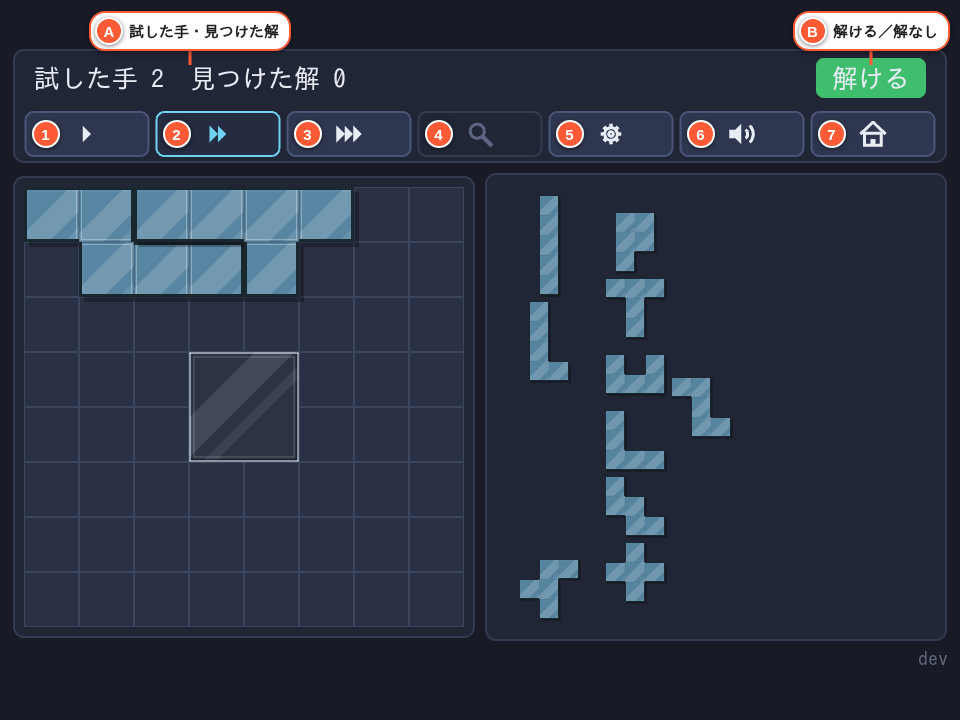
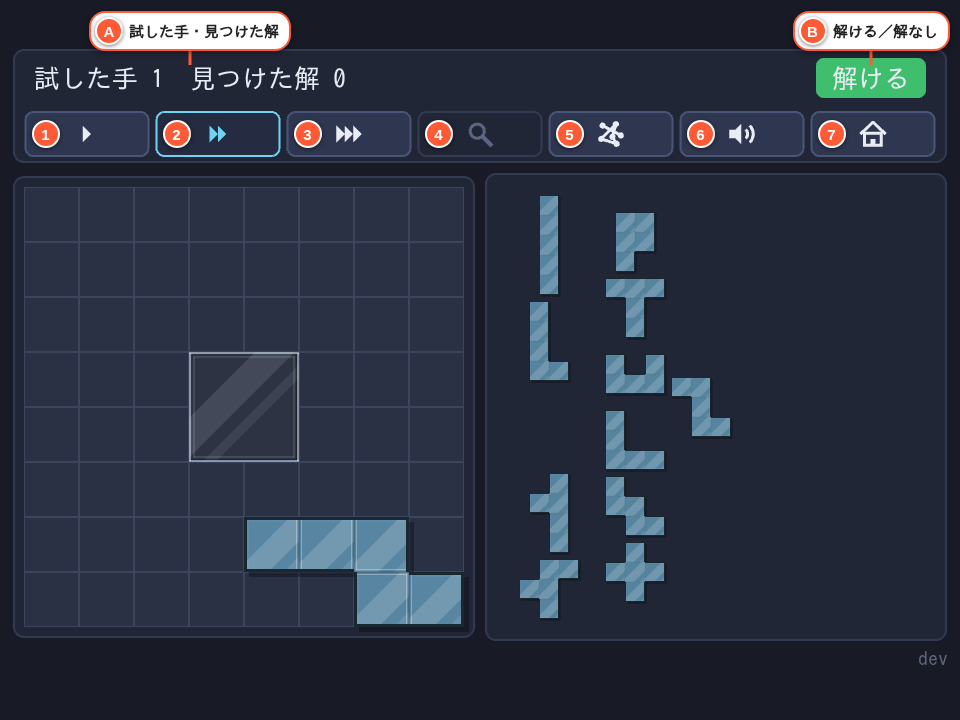
feat(demo): デモの既定の探し方をランダムにし、探し方のアイコンを描き直す（TODO-075）
深さ優先は根から枝分かれする木、ランダムは散らした節を交差・輪ができるように
結んだ形にした。文書のキャプチャ（demo.png・demo.gif）も撮り直した。

Claude-Session: https://claude.ai/code/session_019Ssv8KfqsEowbawX9nJXaM

diff --git a/src/icons.js b/src/icons.js
@@ -30,6 +30,21 @@ function arrowHead(g, x, y, angle, length) {
   );
 }
 
+/** 探し方のアイコンの節と線。木と散らばりで節の数と大きさを揃え、結び方だけを違いにする。 */
+const NODE_RADIUS = 0.22;
+const TREE_NODES = [[0, -0.7], [-0.45, 0], [0.45, 0], [-0.75, 0.7], [-0.15, 0.7], [0.45, 0.7]];
+const TREE_EDGES = [[0, 1], [0, 2], [1, 3], [1, 4], [2, 5]];
+const SCATTER_NODES = [[-0.6, -0.6], [0.35, -0.7], [0.1, 0.2], [-0.7, 0.35], [0.7, 0.1], [0.4, 0.7]];
+const SCATTER_EDGES = [[0, 4], [1, 3], [3, 5], [5, 2], [2, 1]];
+
+function graph(g, color, nodes, edges) {
+  begin(g, color);
+  for (const [a, b] of edges) {
+    g.lineBetween(nodes[a][0] * U, nodes[a][1] * U, nodes[b][0] * U, nodes[b][1] * U);
+  }
+  for (const [x, y] of nodes) g.fillCircle(x * U, y * U, NODE_RADIUS * U);
+}
+
 function begin(g, color, width = ICON.lineWidth) {
   g.lineStyle(width, color, 1);
   g.fillStyle(color, 1);
@@ -162,36 +177,15 @@ export const ICONS = {
   },
 
   /**
-   * デモの探し方（TODO-050・TODO-057・TODO-070）。深さ優先は歯車（機械的に
-   * 決まった順で埋める）、ランダムは太い「？」（考えながら探す）。
-   * 顔＋「？」だと HUD の大きさでは「♂」に近く見えたため、「？」1 文字だけの
-   * 線画にした（フォントではなく Graphics API。点と曲線の間を空け、小さくても
-   * 離れて読めるようにしてある）。
+   * デモの探し方（TODO-050・TODO-057・TODO-075）。深さ優先は根から枝分かれする
+   * 木（決まった順で枝をたどる）、ランダムは散らした節を行き当たりばったりに
+   * 結んだもの（線が交差し、輪もできる）。2 つを並べたとき、整った枝分かれと
+   * 絡まった線で対になるようにしてある。
    */
   depthFirst(g, color) {
-    begin(g, color);
-    const r = 0.45 * U;
-    const toothLen = 0.28 * U;
-    const half = 0.13 * U;
-    const count = 8;
-    for (let i = 0; i < count; i += 1) {
-      const angle = (i / count) * Math.PI * 2;
-      const cx = Math.cos(angle) * (r + toothLen / 2);
-      const cy = Math.sin(angle) * (r + toothLen / 2);
-      const dx = Math.cos(angle) * (toothLen / 2);
-      const dy = Math.sin(angle) * (toothLen / 2);
-      const px = -Math.sin(angle) * half;
-      const py = Math.cos(angle) * half;
-      g.fillPoints([
-        { x: cx - dx + px, y: cy - dy + py },
-        { x: cx + dx + px, y: cy + dy + py },
-        { x: cx + dx - px, y: cy + dy - py },
-        { x: cx - dx - px, y: cy - dy - py },
-      ], true);
-    }
-    g.strokeCircle(0, 0, r);
-    g.strokeCircle(0, 0, 0.16 * U);
+    graph(g, color, TREE_NODES, TREE_EDGES);
   },
+
   /** チェックボックスの印（TODO-071）。 */
   check(g, color) {
     begin(g, color, ICON.lineWidth + 1);
@@ -227,15 +221,7 @@ export const ICONS = {
   },
 
   random(g, color) {
-    begin(g, color, ICON.lineWidth + 2);
-    // 鉤の先が真下（角度 90°）で終わるように半径・中心を選び、その下へ
-    // まっすぐ茎を伸ばす。点は茎と間を空けて置き、小さくても離れて見える
-    // ようにしてある。
-    g.beginPath();
-    g.arc(0, -0.3 * U, 0.42 * U, -Math.PI * 0.8, Math.PI * 0.5, false);
-    g.strokePath();
-    g.lineBetween(0, 0.12 * U, 0, 0.35 * U);
-    g.fillCircle(0, 0.62 * U, 0.15 * U);
+    graph(g, color, SCATTER_NODES, SCATTER_EDGES);
   },
 };
 

diff --git a/src/scenes/demo.js b/src/scenes/demo.js
@@ -1,7 +1,7 @@
 /**
  * デモ（TODO-040）。コンピューターが探索でピースを置いたり外したり
  * しながら解に至る様子を、本編と同じ盤とトレイの上で見せる。探し方は
- * 深さ優先（既定）とランダムから HUD で選ぶ（TODO-050・TODO-057）。
+ * ランダム（既定。TODO-075）と深さ優先から HUD で選ぶ（TODO-050・TODO-057）。
  *
  * 盤・トレイ・ピースの描画は本編（`GameScene`）をそのまま使い回したいので
  * 継承する。`create()` は上書きして描画に要るものだけを組み、入力・ヒント・
@@ -76,7 +76,7 @@ export default class DemoScene extends GameScene {
     this.state = 'loading';
     this.steps = null;
     this.solutions = null;
-    this.strategy = 'depth';
+    this.strategy = 'random';
     // 直前に置いた手が解につながるか。null は表示を空にする（解けたとき）。
     this.hintState = 'ok';
     this.speed = DEMO.defaultSpeed;

diff --git a/archives/agents/TODO-075/reviewer-report.md b/archives/agents/TODO-075/reviewer-report.md
@@ -1,0 +1,82 @@
+# TODO-075 reviewer の報告
+
+対象: 未コミットの `git diff`（2 回目の更新後。`src/icons.js` の `graph()`・
+`SCATTER_EDGES` を含む版）。アイコンの見た目の良し悪しは見ていない。
+
+## 要修正（2 件）
+
+### 1. `tools/capture.mjs:270-277` — random が既定になると demo.png の撮影が 30 秒で落ちることがある
+
+- 何が問題か: `waitForFunction(() => s.hintState === 'ok' ...)` は、深さ優先なら
+  解なしの手をすぐ外すので必ずすぐ通る、という前提で書かれている（270 行目の
+  コメント「解なしの手はすぐ外されるため」）。既定が random になり、撮影は
+  探し方を切り替えないので random で撮ることになる。random は「解なし」のまま
+  置き続けるので、`ok` になるまで長く待つことがある
+- 根拠（実測。Node で `solveStepsRandom()` と `hasSolution()` を 8×8 で回した。
+  スクリプトは scratchpad、コミット対象外）:
+  - 手のうち hintState が `ok` の割合: random 0.04〜0.05、深さ優先 0.57〜0.60（各 3 回）
+  - `解なし` の連続: random で最長 143〜221 手、深さ優先は 1 手
+  - `fast`（200ms、揺らぎ ±50%、外した後 ×2、外す手の連続は待ちなし）の間隔で
+    時間に直し、4 秒待ったあと `ok` になるまでの秒数を 20 回:
+    `0 46 10 13 11 16 9 1 38 2 5 29 6 7 7 11 10 2 34 20`。
+    3/20 回が Playwright の `waitForFunction` の既定の 30 秒を超える
+    （`capture.mjs` に `setDefaultTimeout` も `timeout` 指定も無い）。
+    向きを回して見せる時間（`randomTurnStepMs`）は入れていないので、実際はもっと長い
+- 実際に `capture.mjs` を走らせては確かめていない（実害は未確認）。
+  直し方（撮影だけ `toggleStrategy()` で深さ優先にする／待ち時間を延ばす／
+  random のまま `ok` を待つのをやめる、など）と、demo.png にどちらの探し方を
+  写すかは管理者の判断
+- 270 行目のコメントも random では成り立たないので、どう直すにせよ合わせて直す
+
+### 2. `docs/UsersGuide.md:153-155` — デモの冒頭の説明が深さ優先の動きのまま
+
+- 何が問題か: 冒頭の段落が「置き方は、ヒント表示を入にして解くときと同じで、
+  置いて『解なし』と出たらすぐに外して次を試す。」と、探し方の区別なしに
+  書いている。これは深さ優先の動き。既定が random になったので、デモを開いた
+  利用者が最初に見る動き（解なしでも置き続ける。176 行目以降の説明）と食い違う
+- 根拠: 差分が直したのは 166〜167 行目（探し方の段落）と 195 行目（表）だけで、
+  153〜155 行目は変わっていない。依頼の `rg -n "既定|歯車|「？」|深さ優先"` には
+  「深さ優先」の語が無いので掛からない
+
+## 検討（1 件）
+
+### 3. `src/icons.js:37-38` — 散らばりの線が、結んでいない節 2 に重なる
+
+- 何が問題か: `SCATTER_EDGES` の `[0, 4]` と `[1, 3]` が、どちらも節 2
+  `(0, -0.05)` の円を通る。線の中心から節 2 の中心までの距離は `[0, 4]` が
+  0.200、`[1, 3]` が 0.212 で、`NODE_RADIUS` 0.22 より小さい（線幅の分を
+  足さなくても重なる）。見た目では節 2 が 0–4 と 1–3 の両方の途中にある
+  ように見え、どこが交差でどこが節か読みにくくなる可能性がある
+- 根拠: 座標からの計算（上の数値）。HUD の大きさでどう見えるかは見ていない
+  （screens の担当の範囲。実害は未確認）
+
+## 好みの範囲（1 件）
+
+### 4. `src/icons.js:180-184` と `:223` — ランダムの説明が 40 行離れた depthFirst の JSDoc にある
+
+- `random()` には JSDoc が無く、説明は `depthFirst()` の JSDoc にまとめてある。
+  間に `check`・`trash`・`prevPage`・`nextPage` が挟まる。置き場所は差分の前から
+  同じなので、今回直さなくてもよい
+
+## 問題の無かった観点
+
+- 既定を random にした影響（demo.js）: 問題なし。`create()` が毎回
+  `this.strategy = 'random'` にし、HUD のボタンは `STRATEGIES[this.strategy]` から
+  作るので見た目も合う。`toggleStrategy()` の三項は既定に依らない。
+  `pickWaitScale()`・`advance()` の回転の演出・`finishStep()` の音は strategy を
+  見て分かれるだけで、既定の値を前提にしていない。読み込み中に切り替えたときも
+  `startSearch()` が今の strategy を使う
+- demo.js を継承・参照する箇所: `src/main.js` の登録だけ。strategy を外から
+  触る箇所は `src/`・`tools/`・`tests.html` に無い（`rg -n "strategy"`）
+- demo.gif（`capture.mjs:288-306`）: 12 秒録るだけで状態を待たないので詰まらない。
+  写る動きが random になる（解なしのまま置き続ける）のは既定を変えた結果どおり
+- 文書の既定・アイコンの形: 上の 2. 以外に漏れなし。`CLAUDE.md:76`・
+  `docs/developer.md:253` は既定を書いていない。README は探し方に触れていない
+- 規約: `setTimeout` なし、トップレベルの書き換わる `let` なし（追加は `const`）。
+  アイコンの座標を `icons.js` に直接書くのは既存のアイコンと同じ書き方（`config.js`
+  にあるのは `ICON.size`・`ICON.lineWidth` だけ）。定数の JSDoc は「なぜ」
+  （節の数と大きさを揃え、結び方だけを違いにする）を書いている
+- テスト: アイコンは `tests.html` の対象外（Phaser 依存）。足すべきテストなし
+- 範囲: `depthFirst` と `check` の間の空行の追加は、他のメソッド間と揃えるもので問題なし。
+  TODO.md の変更は方針変更の記録で妥当
+- 作り込みすぎ: なし（`graph()` は 2 か所から使われ、歯車と「？」の計 30 行が消えた）

diff --git a/archives/todo/TODO-075. デモの既定の探し方をランダムにし、探し方のアイコンを描き直す.md b/archives/todo/TODO-075. デモの既定の探し方をランダムにし、探し方のアイコンを描き直す.md
@@ -1,0 +1,56 @@
+# TODO-075. デモの既定の探し方をランダムにし、探し方のアイコンを描き直す
+
+|      | main | 担当 |
+|------|------|------|
+| 見込み | Opus 5.5 / effort medium | main（実装）+ reviewer（Opus 5.5 / high）+ screens（Sonnet 5 / low） |
+| 実施 | Opus 5.5 / effort 不明 | main（実装）+ reviewer（Opus 5.5 / high）+ screens（Sonnet 5 / low） |
+
+| 担当 | モデル | effort | output | cache_creation | 料金の割合 |
+|------|--------|--------|--------|----------------|-----------|
+| main | Opus 5.5 | 不明 | 12,900 | 38,269 | 63% |
+| reviewer | Opus 5.5 | high | 3,383 | 62,426 | 28% |
+| screens | Sonnet 5 | low | 677 | 42,244 | 9% |
+| 合計 |  |  | 16,960 | 142,939 | 概算 $3.1 |
+
+- reviewer は定義（`~/.claude/agents/reviewer.md`）のモデルが sonnet。既定の変更で挙動が変わる箇所を追わせるため Opus 5.5 に上書きした
+- main の effort は、このセッションで切り替えた記録が無く分からない
+
+## きっかけ
+
+利用者の依頼（2026-09-25）。デモの探し方の既定をランダムにし、深さ優先のアイコンを
+木に、ランダムのアイコンを木と対になる形にする。ランダムの形は、最初は利用者が
+「線で結ばない散らばった点」を選び、着手後に「丸い節をランダムに線で結ぶ」へ変えた。
+
+## やったこと
+
+- `src/scenes/demo.js`: `this.strategy` の初期値を `'random'` に。冒頭のコメントも合わせた
+- `src/icons.js`: 歯車と「？」をやめ、共通の `graph()` で節と線を描く。
+  `depthFirst()` は根から 2 段枝分かれする木、`random()` は同じ数・大きさの節を散らし、
+  交差と輪ができるように結ぶ。関係の無い節の上を線が通らない位置に節を置いた
+- `tools/capture.mjs`: `demo.png` の撮影で「解ける」を待っていたのを、札が出ていれば
+  止めるように変えた（ランダムは「解なし」のまま置き続け、30 秒を超えて待つことがあるため）
+- `docs/UsersGuide.md`: 探し方の既定とアイコンの形、冒頭の「解なしならすぐ外す」
+  （深さ優先の動き）を直した
+- `docs/images/demo.png`・`demo.gif` を撮り直した（`game.png`・`play.png` も撮り直しで
+  差分が出たが、今回と関係ないので戻した）
+
+## 確かめたこと
+
+- デモを開いたとき `strategy` が `'random'`（1280×720・640×360）
+- 探し方のボタンを 1280×720・640×360 で、ランダム・深さ優先の両方撮った。はみ出し・
+  潰れは無く、0.5 倍でも見分けられる（`archives/agents/TODO-075/screens-report.md`）。
+  利用者も画像を見て了承した
+- `capture.mjs` が最後まで走り、`demo.png` に HUD と番号が写り、`demo.gif` の途中の
+  フレームにピースが置かれていることを見た
+
+## 分担の振り返り
+
+- reviewer: `capture.mjs` の待ちが random で 30 秒を超えうること（Node で 20 回中 3 回）、
+  `UsersGuide.md` の冒頭が深さ優先の動きのままなこと、線が節 2 に重なることを見つけた。
+  どれも main が文書の `rg` だけでは拾えなかったもの
+- screens: 問題は見つけなかった（見分けられることの確認と、利用者に見せる画像の用意）
+- 見込みとの食い違いは無い。途中でアイコンの形が変わったが、reviewer に差分の更新を
+  伝えて同じ担当で続けたので、立て直しは起きなかった
+- 次に同じ規模（既定値 1 つ＋アイコン）なら同じ組み方でよい。ただしアイコンの形は
+  利用者が画像を見て変えることがあるので、実装したらまず screens に撮らせて利用者に
+  見せ、形が固まってから reviewer を起こすと、レビューのやり直しを避けられる

diff --git a/docs/UsersGuide.md b/docs/UsersGuide.md
@@ -150,8 +150,8 @@
 タイトルの **記録** の横にある **デモ** を押すと、選んでいる盤と色の組で、
 空の盤からコンピューターが探索してピースを置いたり外したりしながら
 解を見つける様子を眺められる。記録・遊びかけ・見つけた解には何も残らない。
-置き方は、ヒント表示を入にして解くときと同じで、置いて「解なし」と出たら
-すぐに外して次を試す。HUD にも本編と同じ「解ける／解なし」を出す（Ⓑ）。
+置いた直後の盤が解につながるかを、本編と同じ「解ける／解なし」で HUD に出す（Ⓑ）。
+「解なし」と出たときの動きは探し方で違う（後述）。
 
 画面上端のボタンは本編と同じくアイコンで、マウスを載せると（タッチ端末では
 押すと）何のボタンかが出る。速さは **ゆっくり**・**速い**・**最速**
@@ -163,8 +163,8 @@
 試した手数と見つけた解の数を画面に出す（Ⓐ）。試した手数は最初から探し直すたびに
 0 に戻る。見つけた解の数は探し方を切り替えると 0 に戻る。
 
-**探し方** のボタンで、深さ優先（歯車）とランダム（「？」）を
-切り替えられる。既定は深さ優先で、左上の空いたマスから順に埋めていく。
+**探し方** のボタンで、ランダム（線が絡まった点）と深さ優先（枝分かれする木）を
+切り替えられる。既定はランダム。深さ優先は、左上の空いたマスから順に埋めていく。
 ランダムは、残りのピースから 1 枚を選び、向きも含めて置き場所を選んで置く。
 ピースは、置ける手が一番少ない空きマス（「狭い所」）を覆えるものが選ばれやすい
 （隙間に入るピースを探して選ぶように見せるため）。置き場所は、盤の端や
@@ -192,6 +192,6 @@
 |---|---|---|
 | 1〜3 | ゆっくり・速い・最速 | 探索の速さ |
 | 4 | 次の解を探す | 解を見つけて止まっているときだけ押せる |
-| 5 | 探し方 | 深さ優先とランダムを切り替える |
+| 5 | 探し方 | ランダムと深さ優先を切り替える |
 | 6 | 音 ON・OFF | 効果音の切り替え |
 | 7 | タイトルへ | 確認を挟まずにタイトルへ戻る |

diff --git a/archives/index.md b/archives/index.md
@@ -4,6 +4,7 @@
 作り直すので、手で直さない。やらないと決めたものは（対応しない）が付いている。
 進行中の項目は [TODO.md](../TODO.md) にある。
 
+- [TODO-075. デモの既定の探し方をランダムにし、探し方のアイコンを描き直す](todo/TODO-075.%20%E3%83%87%E3%83%A2%E3%81%AE%E6%97%A2%E5%AE%9A%E3%81%AE%E6%8E%A2%E3%81%97%E6%96%B9%E3%82%92%E3%83%A9%E3%83%B3%E3%83%80%E3%83%A0%E3%81%AB%E3%81%97%E3%80%81%E6%8E%A2%E3%81%97%E6%96%B9%E3%81%AE%E3%82%A2%E3%82%A4%E3%82%B3%E3%83%B3%E3%82%92%E6%8F%8F%E3%81%8D%E7%9B%B4%E3%81%99.md)
 - [TODO-074. デモのランダムで、狭い所を埋める強さと崩す回数の値を決める](todo/TODO-074.%20%E3%83%87%E3%83%A2%E3%81%AE%E3%83%A9%E3%83%B3%E3%83%80%E3%83%A0%E3%81%A7%E3%80%81%E7%8B%AD%E3%81%84%E6%89%80%E3%82%92%E5%9F%8B%E3%82%81%E3%82%8B%E5%BC%B7%E3%81%95%E3%81%A8%E5%B4%A9%E3%81%99%E5%9B%9E%E6%95%B0%E3%81%AE%E5%80%A4%E3%82%92%E6%B1%BA%E3%82%81%E3%82%8B.md)
 - [TODO-073. 記録画面から、選んだ回の完成形の続きを遊べるようにする](todo/TODO-073.%20%E8%A8%98%E9%8C%B2%E7%94%BB%E9%9D%A2%E3%81%8B%E3%82%89%E3%80%81%E9%81%B8%E3%82%93%E3%81%A0%E5%9B%9E%E3%81%AE%E5%AE%8C%E6%88%90%E5%BD%A2%E3%81%AE%E7%B6%9A%E3%81%8D%E3%82%92%E9%81%8A%E3%81%B9%E3%82%8B%E3%82%88%E3%81%86%E3%81%AB%E3%81%99%E3%82%8B.md)
 - [TODO-072. 本編で、完成したあとも続けて別の解を作れるようにする](todo/TODO-072.%20%E6%9C%AC%E7%B7%A8%E3%81%A7%E3%80%81%E5%AE%8C%E6%88%90%E3%81%97%E3%81%9F%E3%81%82%E3%81%A8%E3%82%82%E7%B6%9A%E3%81%91%E3%81%A6%E5%88%A5%E3%81%AE%E8%A7%A3%E3%82%92%E4%BD%9C%E3%82%8C%E3%82%8B%E3%82%88%E3%81%86%E3%81%AB%E3%81%99%E3%82%8B.md)

diff --git a/TODO.md b/TODO.md
@@ -1,6 +1,6 @@
 # TODO
 
-**残っている項目: TODO-064・TODO-075。** これまでに 73 件を決着させた。
+**残っている項目: TODO-064。** これまでに 74 件を決着させた。
 新しく足すときは「完了済み」の上に節を作る。
 **新規項目の番号は `TODO-076` から。**
 
@@ -27,24 +27,6 @@
 （`logic.js` も少し触る）。探索の順番は変えない。
 確認は TODO-059 の振り返りのとおり、画面の時間ではなく `pickWaitScale()` の
 値を `evaluate` で集めて見る（headless ではフレームが重く測れない）。
-
----
-
-## TODO-075. デモの既定の探し方をランダムにし、探し方のアイコンを描き直す
-
-|      | main | 担当 |
-|------|------|------|
-| 見込み | Opus 5.5 / effort medium | main（実装）+ reviewer（Opus 5.5 / high）+ screens（Sonnet 5 / low） |
-
-- [ ] `demo.js`: 既定の探し方を `random` にする
-- [ ] `icons.js` の `depthFirst()`: 根から枝分かれする木（丸い節を線で結ぶ）にする
-- [ ] `icons.js` の `random()`: 木と同じ丸い節を、線で結ばずに散らして置く
-- [ ] `docs/UsersGuide.md` の探し方の説明（アイコンの形、既定）を直す
-- [ ] `tools/capture.mjs` で `docs/images/demo.png`・`demo.gif` を撮り直す
-
-ランダムのアイコンは、木と「つながり・順序の有無」で対になる形にする
-（サイコロ・シャッフルの矢印ではなく、利用者が 2026-09-25 に選んだ）。
-今は深さ優先が歯車、ランダムが「？」（TODO-070）。
 
 ---
 

diff --git a/archives/agents/TODO-075/screens-report.md b/archives/agents/TODO-075/screens-report.md
@@ -1,0 +1,17 @@
+# TODO-075 画面確認報告
+
+## 確認結果
+
+- デモを開いたときの既定の探し方: `window.game.scene.getScene('Demo').strategy` は `"random"`（1280x720・640x360 とも）
+- コンソール: エラー 0 件。警告は GPU ドライバの性能通知（`GL_CLOSE_PATH_NV ... GPU stall due to ReadPixels`）のみで、コードとは無関係
+- アイコンのはみ出し・重なり: 4 枚すべてで無し。ボタンの枠内に収まっている
+- depth（枝分かれする木）と random（交差・輪のある線）は、1280x720・640x360 のどちらでも見分けられる。random 側は 640x360 でも線の交差と節が判別できる
+
+## 画像
+
+| 画面サイズ | 探し方 | パス |
+|---|---|---|
+| 1280x720 | random（既定） | /home/ytani/tmp/playwright-mcp/demo-1280x720-strategy-random.png |
+| 1280x720 | depth | /home/ytani/tmp/playwright-mcp/demo-1280x720-strategy-depth.png |
+| 640x360 | random（既定） | /home/ytani/tmp/playwright-mcp/demo-640x360-strategy-random.png |
+| 640x360 | depth | /home/ytani/tmp/playwright-mcp/demo-640x360-strategy-depth.png |

diff --git a/archives/agents/TODO-075/README.md b/archives/agents/TODO-075/README.md
@@ -1,0 +1,8 @@
+# TODO-075 の分担
+
+- main: 実装（`demo.js` の既定、`icons.js` の 2 つのアイコン、`docs/UsersGuide.md`）。
+  変更が 3 ファイル・数十行と小さいため、実装の担当は分けなかった
+- reviewer（Opus 5.5 / high）: 既定を変えたことで挙動が変わる箇所の見落としと、規約の点検
+- screens（Sonnet 5 / low）: HUD の大きさで 2 つのアイコンが見分けられるか、潰れていないか
+
+報告: `reviewer-report.md`、`screens-report.md`
